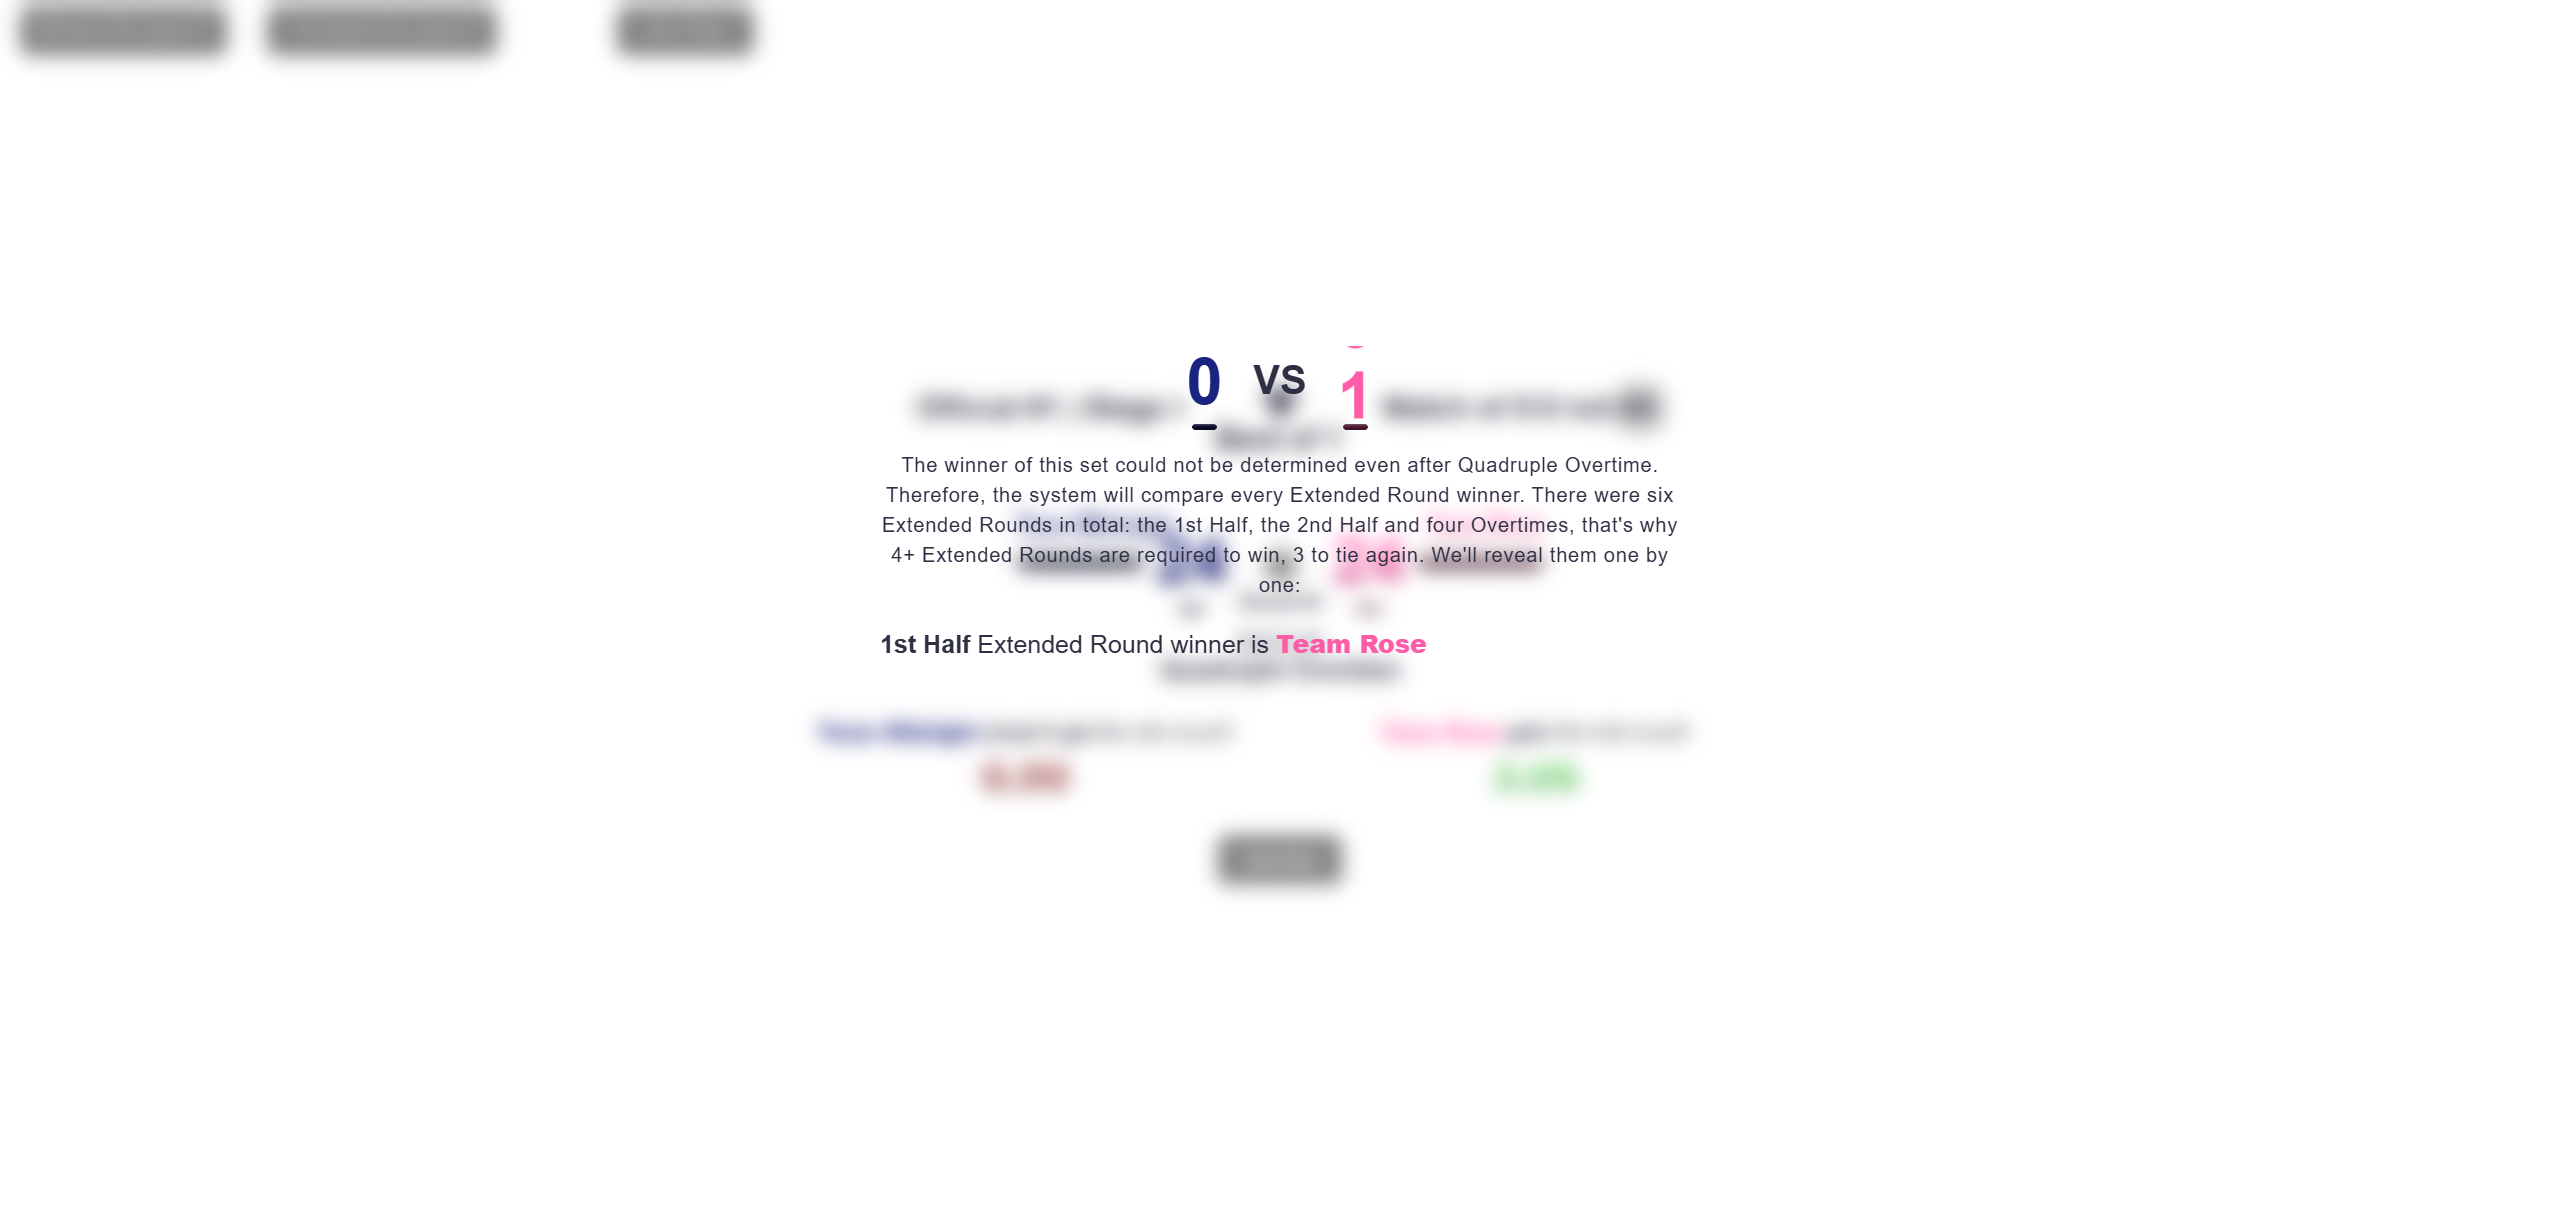
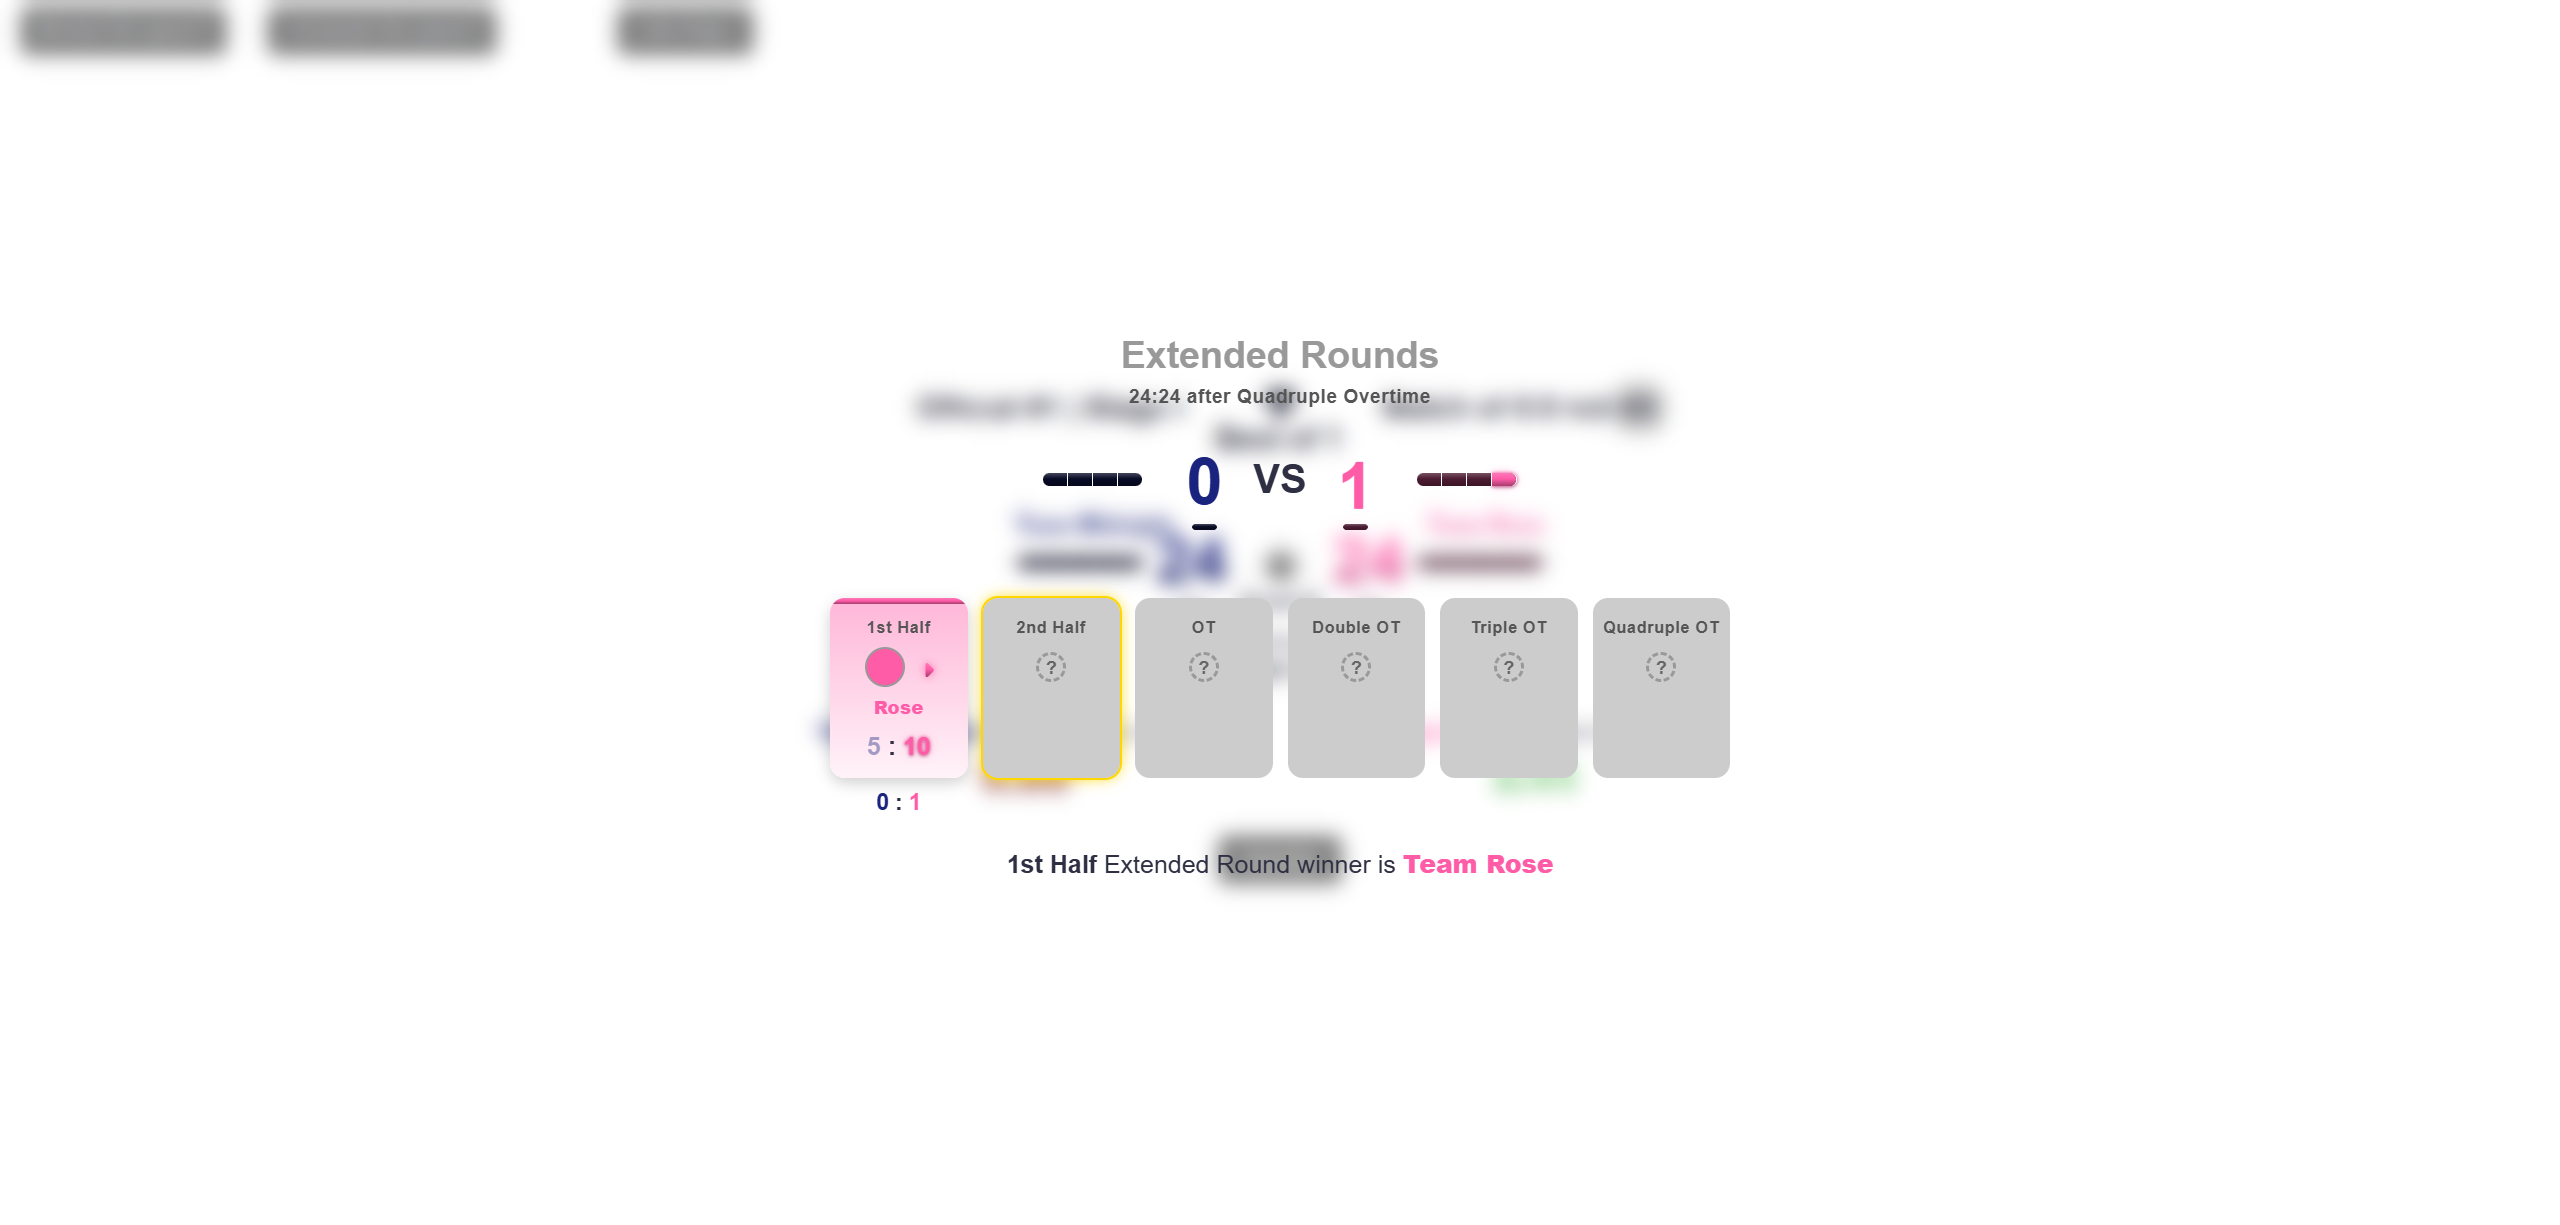
b

Changed region(s): [[0.3125, 0.3722, 0.6875, 0.6514], [0.4375, 0.2792, 0.5625, 0.3412], [0.4062, 0.6824, 0.625, 0.7135]]

diff --git a/src/pages/SpecialModePage/components/ExtendedRounds.jsx b/src/pages/SpecialModePage/components/ExtendedRounds.jsx
@@ -133,7 +133,18 @@ export const ExtendedRoundsTrack = ({
                             className={`${css.ert_tile} ${css.ert_tile_back} ${isNext ? `${css.match_current} ${css.ert_tile_next}` : ""}`}
                         >
                             <span className={`${css.info_text} ${css.ert_tile_label}`}>{round.label}</span>
-                            <TeamCircle team={null} />
+                            <span className={css.ert_tile_winner}>
+                                <TeamCircle team={null} />
+                            </span>
+                            <span className={css.info_text} style={{ fontSize: "14px", fontWeight: 900, visibility: "hidden" }}>
+                                ?
+                            </span>
+                            {round.miniLeft != null && round.miniRight != null && (
+                                <span className={css.vs} style={{ fontSize: "20px", visibility: "hidden" }}>?</span>
+                            )}
+                            {showRoundNumbers && round.roundNumber != null && (
+                                <span className={`${css.info_text} ${css.ert_tile_round}`} style={{ visibility: "hidden" }}>?</span>
+                            )}
                         </div>
                     )}
 

diff --git a/src/pages/SpecialModePage/SpecialModePage.module.css b/src/pages/SpecialModePage/SpecialModePage.module.css
@@ -4054,9 +4054,6 @@
     box-shadow: none;
 }
 
-.ert_tile_back .placeholder_circle {
-    margin-top: 12px;
-}
 
 .ert_tile_bar {
     position: absolute;
